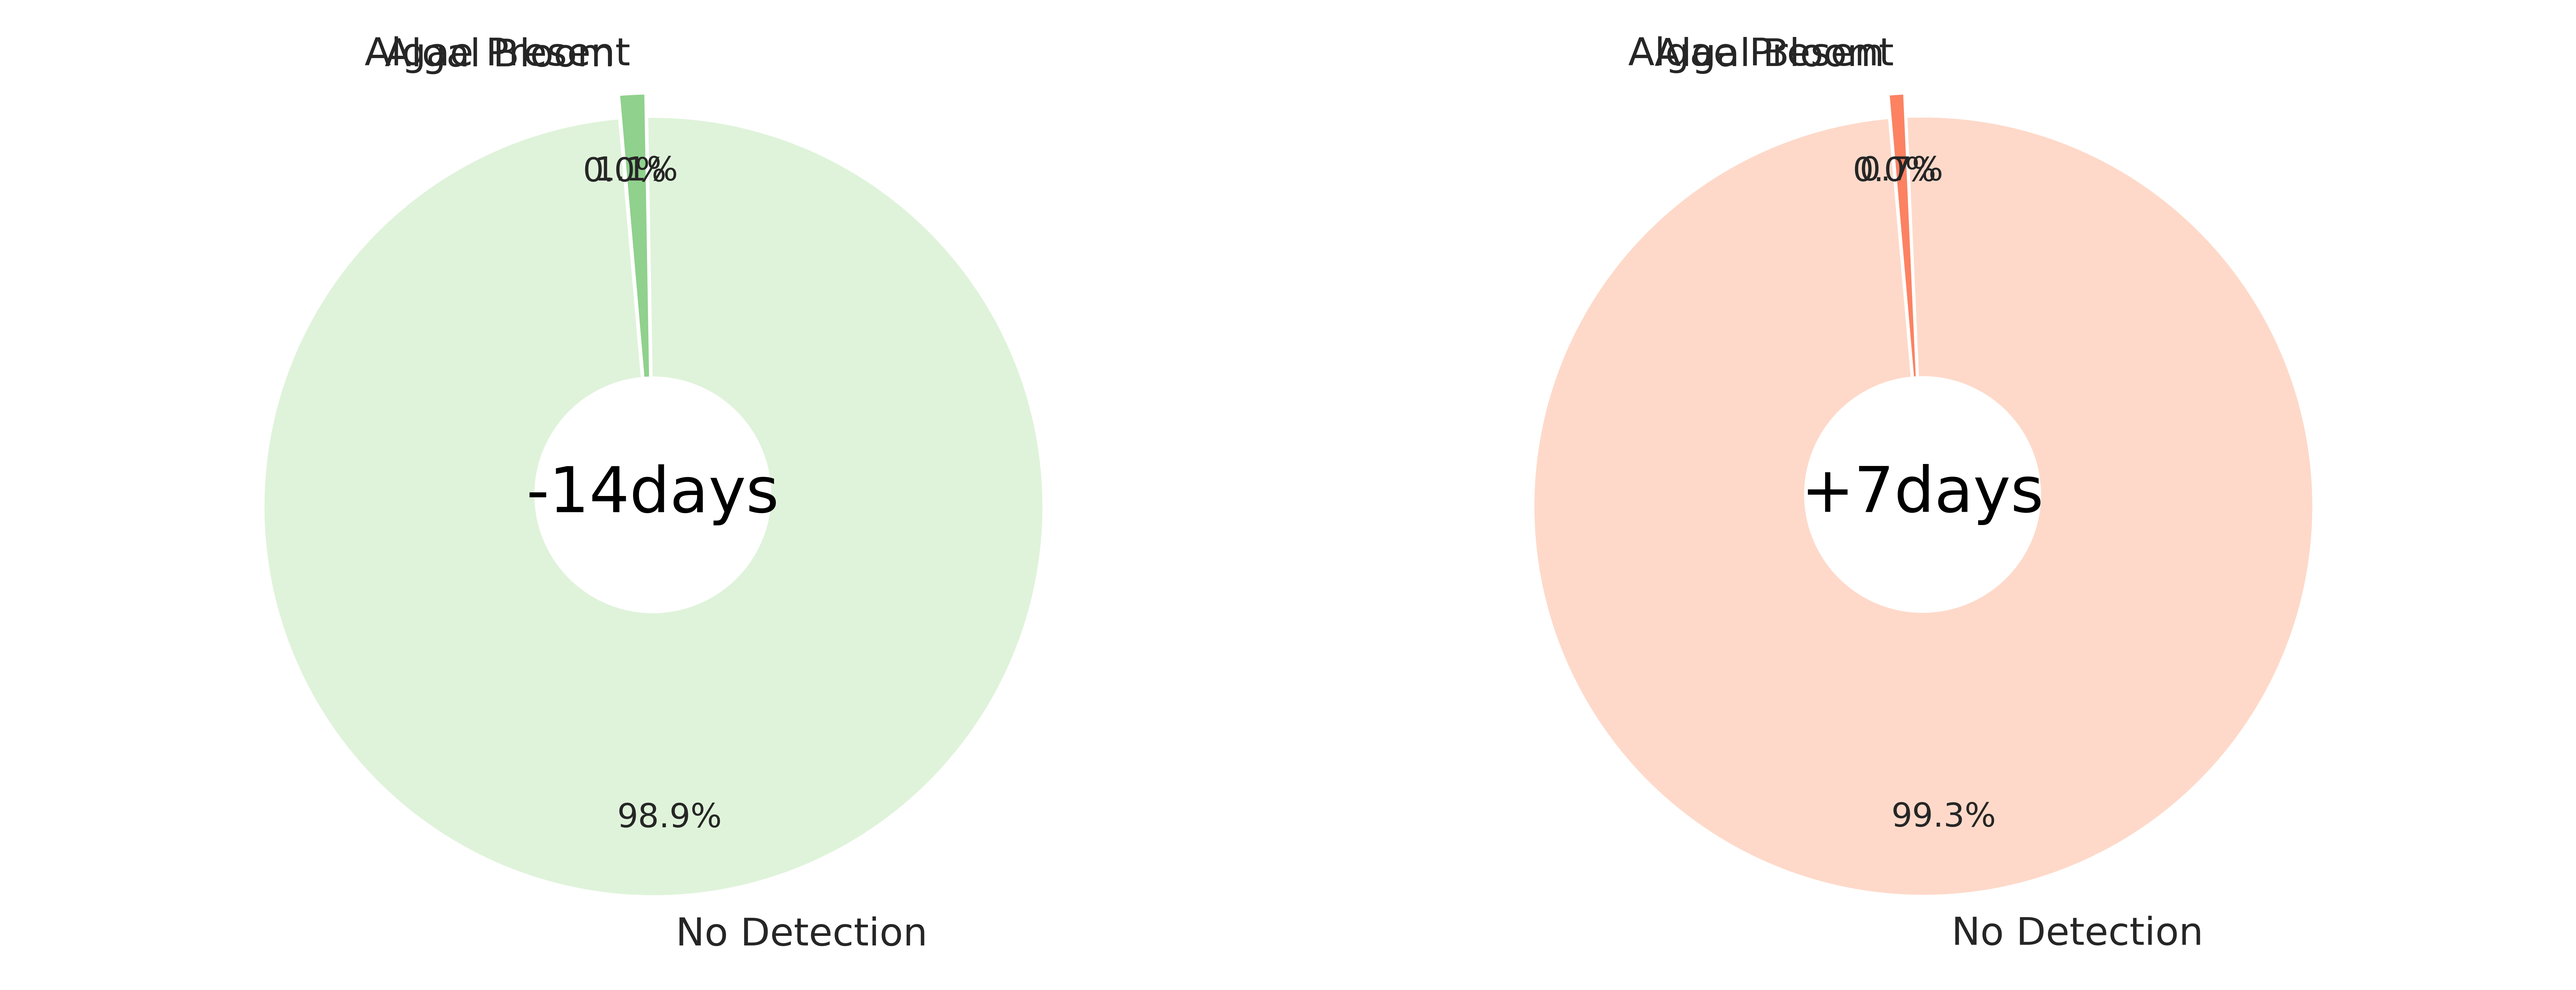
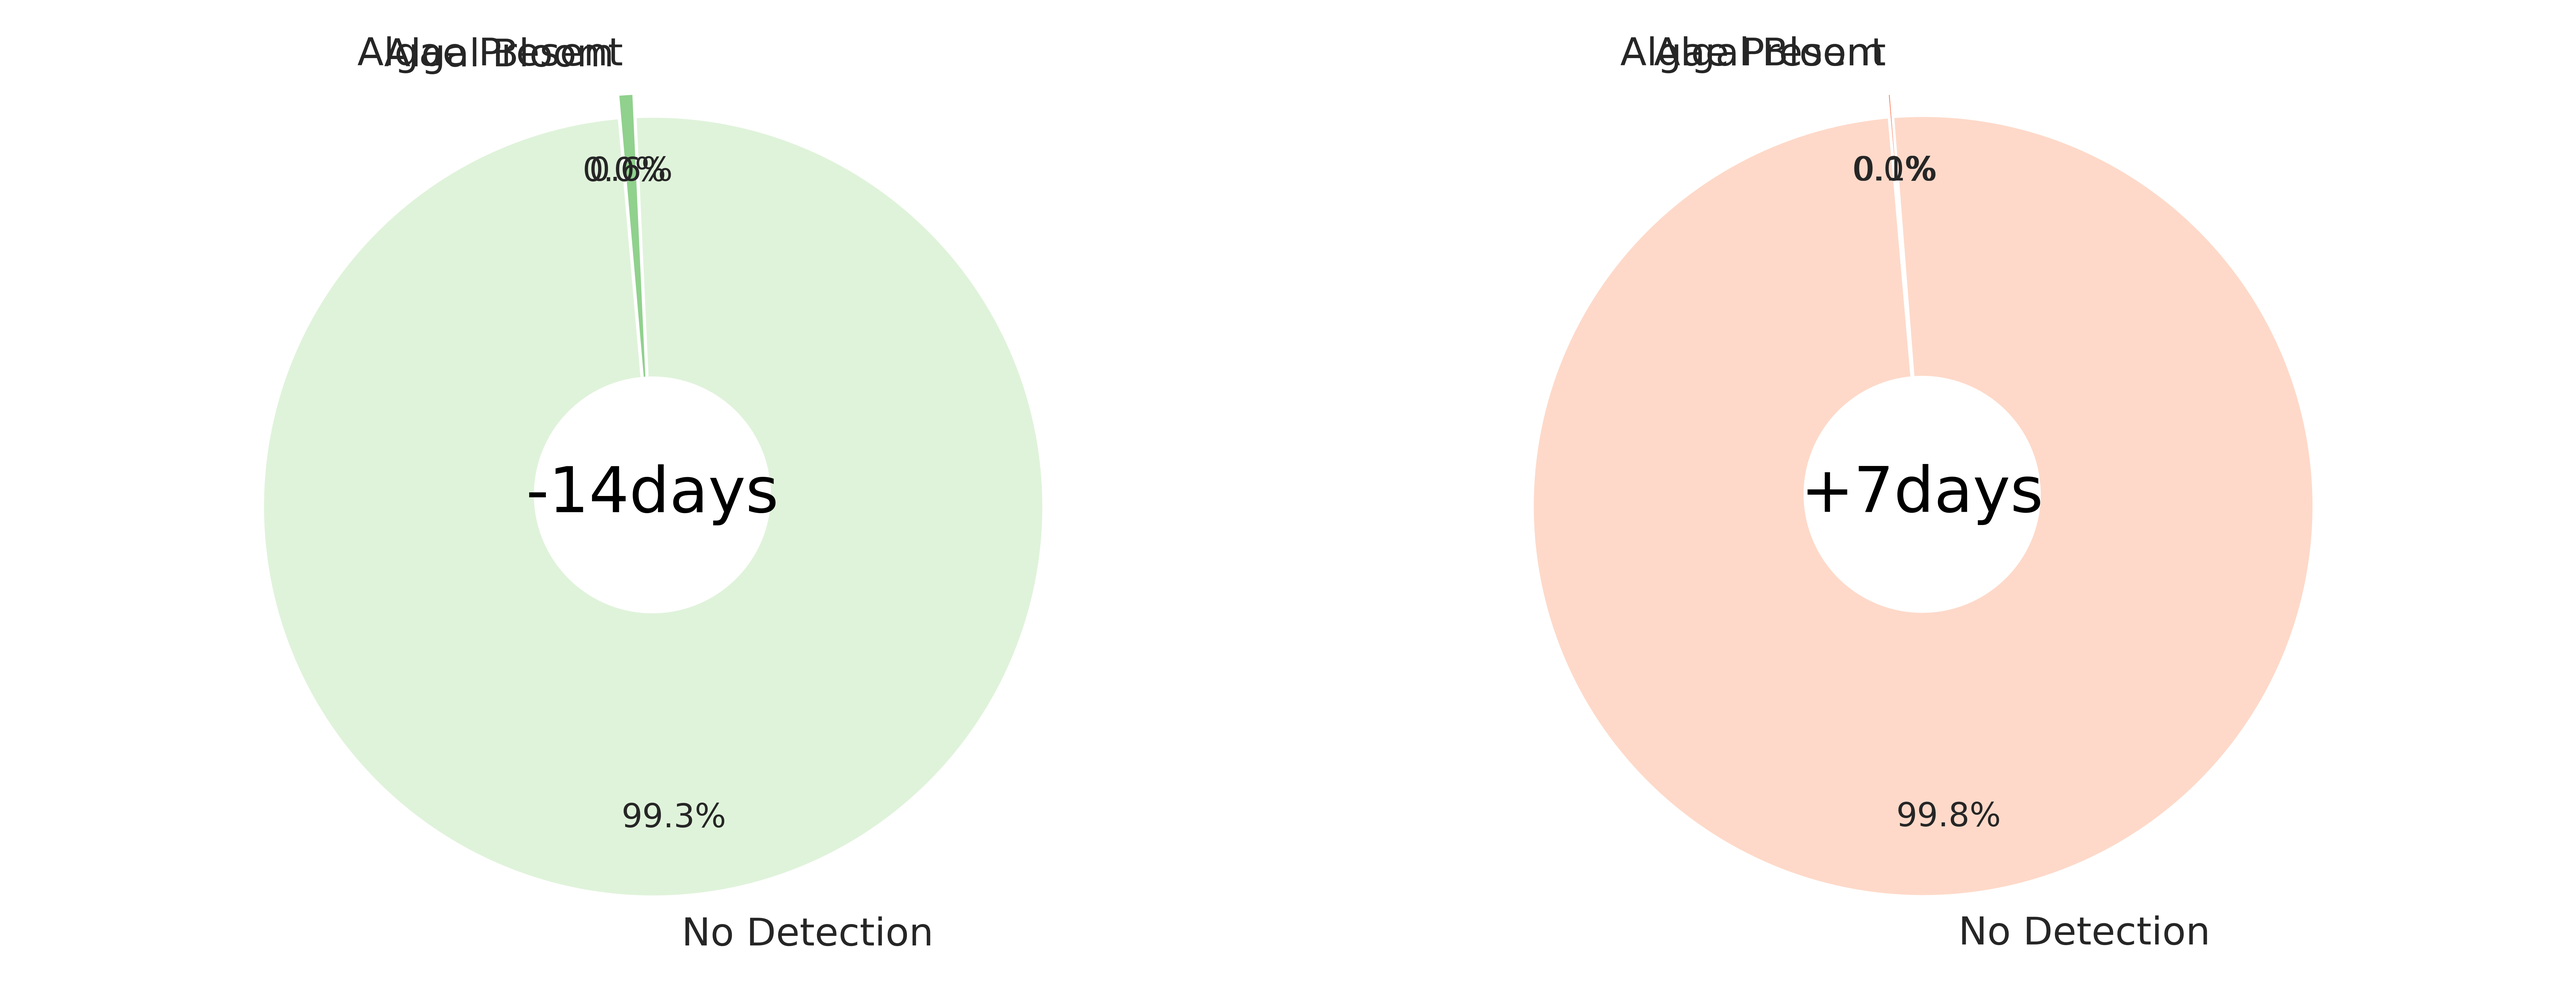
daily blog update

diff --git a/index.md b/index.md
@@ -1,5 +1,5 @@
 ---
-title: "Jan 01, 2024"
+title: "Jan 08, 2024"
 excerpt: "HAB update"
 image: /assets/images/woodcliff.jpg
 tags: 
@@ -11,34 +11,34 @@ Click here to see the live and interactive [Harmful Algal Bloom dashboard](https
 
 ## 7-day Look Ahead Bloom Forecast
 Below are pie charts describing the __probability of a cyanobacterial bloom__. The chart on the left describes the predictions from two weeks ago, and the one on the right describes the latest prediction, for the coming week. 
-![image-center]({{ site.url }}{{ site.baseurl }}/assets/images/20240101/Fig_prediction.png)
+![image-center]({{ site.url }}{{ site.baseurl }}/assets/images/20240108/Fig_prediction.png)
 __Probabilities of occurrence (%) of an algal bloom from two weeks ago (left) and for the next 7 days (right).__
 
 ## Hotspot Analysis - Chlorophyll-a
 This map shows you the latest estimates of __chlorophyll-a__ from the Sentinel 2a satellite. Note that the color scale is normalized to highlight the hotspots in the image. The colorscale does not provide an indication of the absolute amount of chlorophyll-a in the water and should be interpreted as an "index" of chlorophyll-a.
-![image-center]({{ site.url }}{{ site.baseurl }}/assets/images/20240101/Fig_chla.png){: .align-center}
+![image-center]({{ site.url }}{{ site.baseurl }}/assets/images/20240108/Fig_chla.png){: .align-center}
 <br clear="all" />
 __Latest chlorophyll-a map from the Sentinel 2a satelllite.__
 
 ## Hotspot Analysis - CyAN
 This map shows you the latest estimates of the concentration of cyanobacteria (cells/ml) from the EPA CyAN program.
-![image-center]({{ site.url }}{{ site.baseurl }}/assets/images/20240101/Fig_cyan.png){: .align-center}
+![image-center]({{ site.url }}{{ site.baseurl }}/assets/images/20240108/Fig_cyan.png){: .align-center}
 <br clear="all" />
 __Latest CyAN map from the EPA.__
 
 ## Where we are in the season
 This plot shows the __historical expectation for HAB risk__ over the year. Use this chart to see where we are in the season (identified by the vertical red line). 
-![image-center]({{ site.url }}{{ site.baseurl }}/assets/images/20240101/Fig_climatology.png){: .     align-center}
+![image-center]({{ site.url }}{{ site.baseurl }}/assets/images/20240108/Fig_climatology.png){: .     align-center}
 __Harmful algal bloom risk over the year__.
 
 ## How rainy has it been? 
 We know that in general certain weather conditions promote the likelihood of HABs. Check this chart to see 
 how __wet__ it is, relative to past years. This is simply adding up each day's rainfall, for each year. If the red line is below the orange line, then this year is dryer than average.
-![image-center]({{ site.url }}{{ site.baseurl }}/assets/images/20240101/Fig_precip_cumsum.png){: .     align-center}
+![image-center]({{ site.url }}{{ site.baseurl }}/assets/images/20240108/Fig_precip_cumsum.png){: .     align-center}
 __Precipitation at the lake compared to previous years__.
 
 ## How hot has it been? 
 We know that in general certain weather conditions promote the likelihood of HABs. Check this chart to see 
 how __hot__ it is, relative to past years. This is simply adding up each day's temperature, for each year. If the red line is above the orange line, this year is hotter than average.
-![image-center]({{ site.url }}{{ site.baseurl }}/assets/images/20240101/Fig_temp_cumsum.png){: .     align-center}
+![image-center]({{ site.url }}{{ site.baseurl }}/assets/images/20240108/Fig_temp_cumsum.png){: .     align-center}
 __Air temperature at the lake compared to previous years__.

diff --git a/_posts/2024-01-08-blog039.md b/_posts/2024-01-08-blog039.md
@@ -1,0 +1,44 @@
+---
+title: "Jan 08, 2024"
+excerpt: "HAB update"
+image: /assets/images/woodcliff.jpg
+tags: 
+  - hab
+  - prediction
+---
+
+Click here to see the live and interactive [Harmful Algal Bloom dashboard](https://woodcliff.clrwater.io/).
+
+## 7-day Look Ahead Bloom Forecast
+Below are pie charts describing the __probability of a cyanobacterial bloom__. The chart on the left describes the predictions from two weeks ago, and the one on the right describes the latest prediction, for the coming week. 
+![image-center]({{ site.url }}{{ site.baseurl }}/assets/images/20240108/Fig_prediction.png)
+__Probabilities of occurrence (%) of an algal bloom from two weeks ago (left) and for the next 7 days (right).__
+
+## Hotspot Analysis - Chlorophyll-a
+This map shows you the latest estimates of __chlorophyll-a__ from the Sentinel 2a satellite. Note that the color scale is normalized to highlight the hotspots in the image. The colorscale does not provide an indication of the absolute amount of chlorophyll-a in the water and should be interpreted as an "index" of chlorophyll-a.
+![image-center]({{ site.url }}{{ site.baseurl }}/assets/images/20240108/Fig_chla.png){: .align-center}
+<br clear="all" />
+__Latest chlorophyll-a map from the Sentinel 2a satelllite.__
+
+## Hotspot Analysis - CyAN
+This map shows you the latest estimates of the concentration of cyanobacteria (cells/ml) from the EPA CyAN program.
+![image-center]({{ site.url }}{{ site.baseurl }}/assets/images/20240108/Fig_cyan.png){: .align-center}
+<br clear="all" />
+__Latest CyAN map from the EPA.__
+
+## Where we are in the season
+This plot shows the __historical expectation for HAB risk__ over the year. Use this chart to see where we are in the season (identified by the vertical red line). 
+![image-center]({{ site.url }}{{ site.baseurl }}/assets/images/20240108/Fig_climatology.png){: .     align-center}
+__Harmful algal bloom risk over the year__.
+
+## How rainy has it been? 
+We know that in general certain weather conditions promote the likelihood of HABs. Check this chart to see 
+how __wet__ it is, relative to past years. This is simply adding up each day's rainfall, for each year. If the red line is below the orange line, then this year is dryer than average.
+![image-center]({{ site.url }}{{ site.baseurl }}/assets/images/20240108/Fig_precip_cumsum.png){: .     align-center}
+__Precipitation at the lake compared to previous years__.
+
+## How hot has it been? 
+We know that in general certain weather conditions promote the likelihood of HABs. Check this chart to see 
+how __hot__ it is, relative to past years. This is simply adding up each day's temperature, for each year. If the red line is above the orange line, this year is hotter than average.
+![image-center]({{ site.url }}{{ site.baseurl }}/assets/images/20240108/Fig_temp_cumsum.png){: .     align-center}
+__Air temperature at the lake compared to previous years__.
